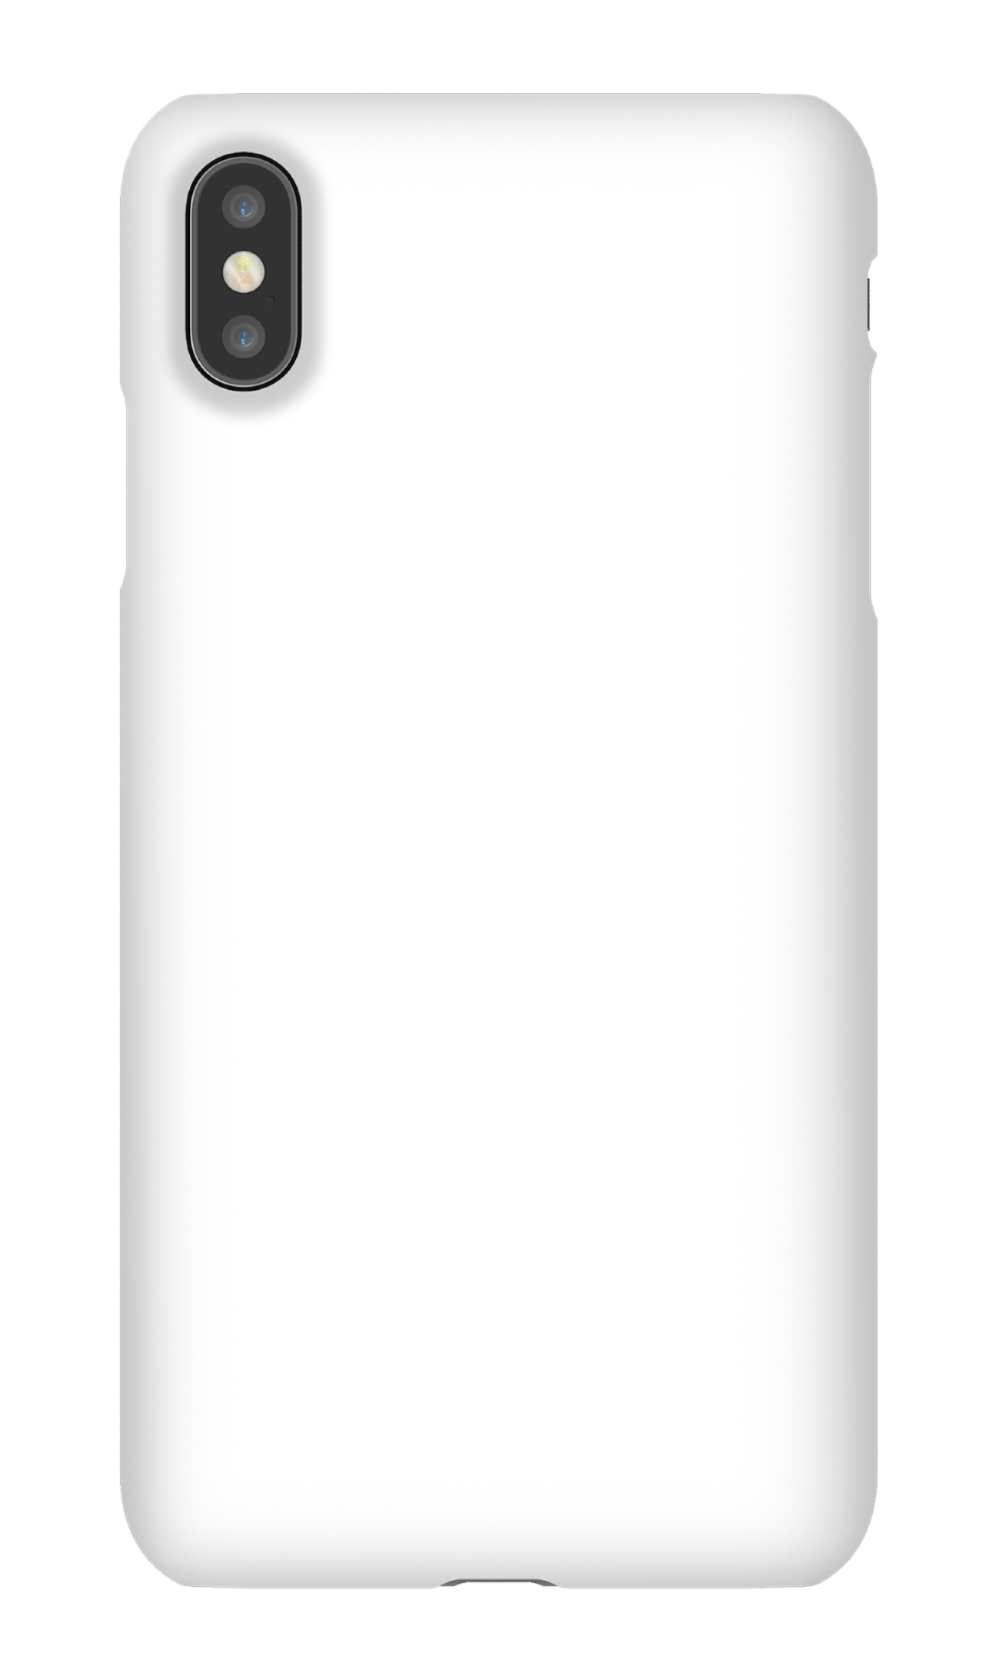
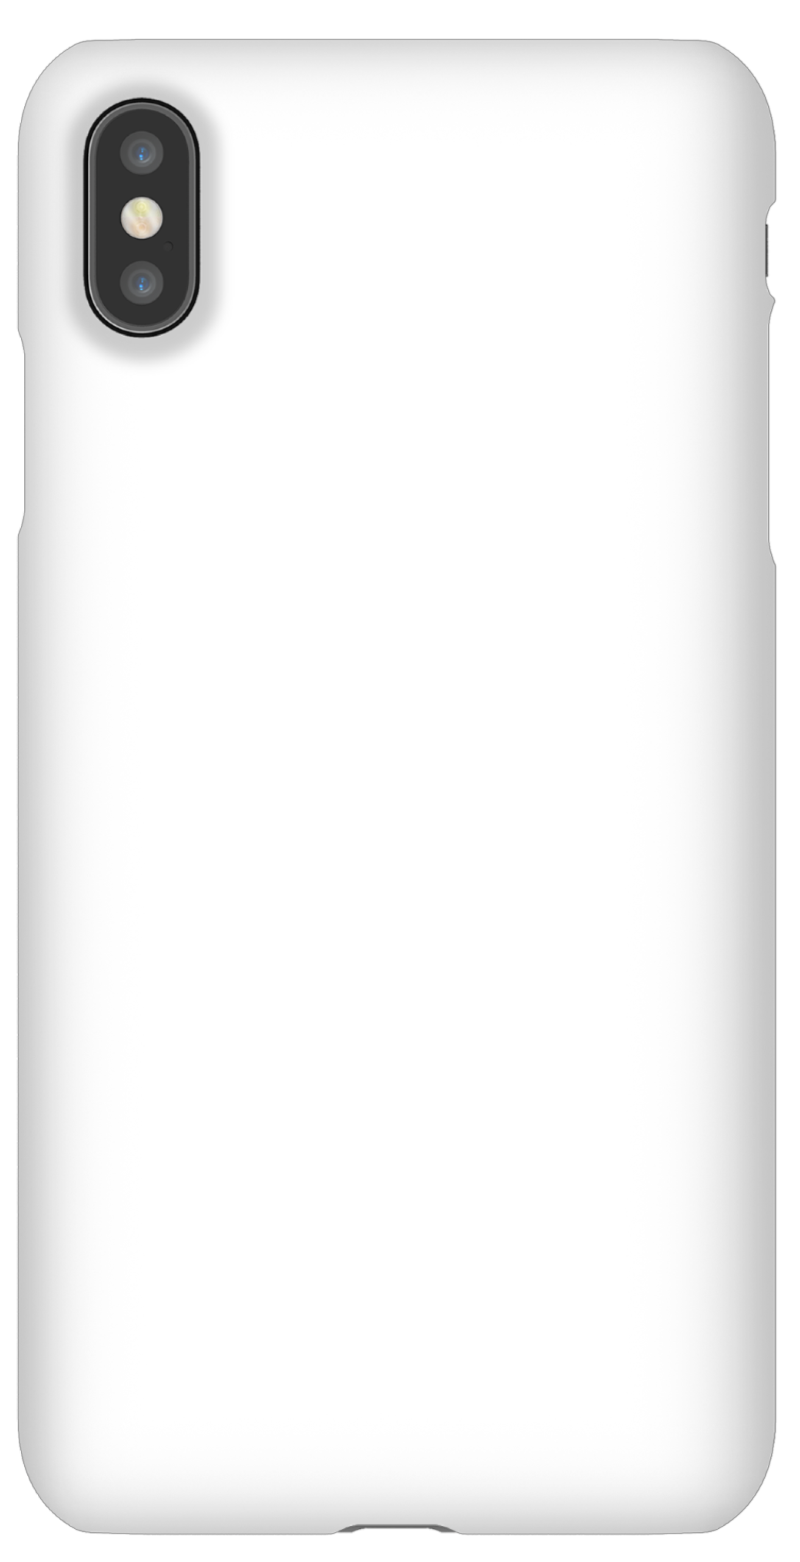
mug design page

Changed region(s): [[0.0, 0.0, 0.9688, 0.9834]]

diff --git a/app/design/tshirt/page.js b/app/design/tshirt/page.js
@@ -57,17 +57,14 @@ const App = () => {
     }, 3000);
     setIsImageFocused(true);
   }
-  function resizeImage(e) {
-    // setImgSrc((prev) => [
-    //   ...prev,
-    //   { src: prev[focusedImageIndex].src, width: e.target.value },
-    // ]);
+  function resizeImageByWidth(e) {
     setIsImageFocused(!isImageFocused);
     imgSrc[focusedImageIndex].width = e.target.value;
-    console.log(imgSrc[focusedImageIndex].width);
-    setImgSrc(imgSrc);
   }
-
+  function resizeImageByHeight(e) {
+    setIsImageFocused(!isImageFocused);
+    imgSrc[focusedImageIndex].height = e.target.value;
+  }
   async function handleOrder() {
     setIsLoading(true);
     imgSrc.forEach((image) => {
@@ -76,7 +73,6 @@ const App = () => {
 
     printArea.current.style.scale = "2";
     printArea.current.style.transform = "translate(0, 0)";
-
     printArea.current.style.transformOrigin = "top right";
     const canvaselem = await html2canvas(printArea.current);
 
@@ -128,7 +124,14 @@ const App = () => {
           className={styles.rangeForSize}
           min={0}
           max={100}
-          onChange={resizeImage}
+          onChange={resizeImageByWidth}
+        />
+        <input
+          type="range"
+          className={styles.rangeForSize}
+          min={0}
+          max={100}
+          onChange={resizeImageByHeight}
         />
       </div>
       <div className={styles.right}>
@@ -163,7 +166,7 @@ const App = () => {
                               }}
                               src={source.src}
                               width={200 * 0.02 * source.width || 200}
-                              height={200 * 0.02 * source.width || 200}
+                              height={200 * 0.02 * source.height || 200}
                               alt={"could not load image"}
                             ></Image>{" "}
                           </div>

diff --git a/app/design/phonecover/Design.module.css b/app/design/phonecover/Design.module.css
@@ -27,20 +27,21 @@ div.main div.right {
 }
 .right .backgroundItem {
   background-image: url("./../../../public/assets/phonecovers/pc1-transparent.png");
-  /* background-image: url("./../../../public/assets/phonecovers/pc-white.png"); */
-  background-image: url("./../../../public/assets/phonecovers/pc-black.png");
-  /* background-image: url("./../../../public/assets/phonecovers/pc-3.png"); */
-  /* background-image: url("./../../../public/assets/phonecovers/pc-4.png"); */
 
-  /* background-size: 715px; */
-  background-size: cover;
+  /* background-image: url("./../../../public/assets/phonecovers/pc-white.png"); */
+  /* background-image: url("./../../../public/assets/phonecovers/pc-black.png"); */
+
+  background-size: contain;
   background-position: center center;
   background-repeat: no-repeat;
   background-color: royalblue;
+  /* background-color: rgb(109, 180, 161); */
+  /* background-color: white; */
+
   position: relative;
-  /* width: fit-content; */
   width: min(80vw, 500px);
   height: 100vh;
+
   display: grid;
   place-items: center;
   /* background-color: rgb(192, 255, 137); */
@@ -49,17 +50,17 @@ div.main div.right {
 }
 .right .backgroundItem .cameraLens {
   position: absolute;
-  top: 13%;
-  left: 25%;
-  width: 100px;
-  height: 100px;
+  top: 5%;
+  left: 20%;
+  width: 130px;
+  height: 130px;
   z-index: 333;
 }
 
 .right .backgroundItem .printArea {
   width: 60%;
   overflow: hidden;
-  height: 80vh;
+  height: 96vh;
   border-radius: 32px;
 
   transform: translate(50%, -50%);

diff --git a/app/design/phonecover/page.js b/app/design/phonecover/page.js
@@ -57,11 +57,13 @@ const PhoneCoverDesign = () => {
     }, 3000);
     setIsImageFocused(true);
   }
-  function resizeImage(e) {
+  function resizeImageByWidth(e) {
     setIsImageFocused(!isImageFocused);
     imgSrc[focusedImageIndex].width = e.target.value;
-    console.log(imgSrc[focusedImageIndex].width);
-    setImgSrc(imgSrc);
+  }
+  function resizeImageByHeight(e) {
+    setIsImageFocused(!isImageFocused);
+    imgSrc[focusedImageIndex].height = e.target.value;
   }
 
   async function handleOrder() {
@@ -127,7 +129,14 @@ const PhoneCoverDesign = () => {
           className={styles.rangeForSize}
           min={0}
           max={100}
-          onChange={resizeImage}
+          onChange={resizeImageByWidth}
+        />
+        <input
+          type="range"
+          className={styles.rangeForSize}
+          min={0}
+          max={100}
+          onChange={resizeImageByHeight}
         />
       </div>
       <div className={styles.right}>
@@ -168,7 +177,7 @@ const PhoneCoverDesign = () => {
                               }}
                               src={source.src}
                               width={200 * 0.02 * source.width || 200}
-                              height={290 * 0.02 * source.width || 270}
+                              height={290 * 0.02 * source.height || 270}
                               alt={"could not load image"}
                             ></Image>{" "}
                           </div>

diff --git a/app/design/page.js b/app/design/page.js
@@ -4,8 +4,9 @@ const page = () => {
   return (
     <div>
       page
-      <Link href={"/tshirt"}>Go to tshirt design page</Link>
-      <Link href={"/phonecover"}>Go to phone cover design page</Link>
+      <Link href={"/design/tshirt"}>Go to tshirt design page</Link>
+      <Link href={"/design/phonecover"}>Go to phone cover design page</Link>
+      <Link href={"/design/mug"}>Go to mug design page</Link>
     </div>
   );
 };
